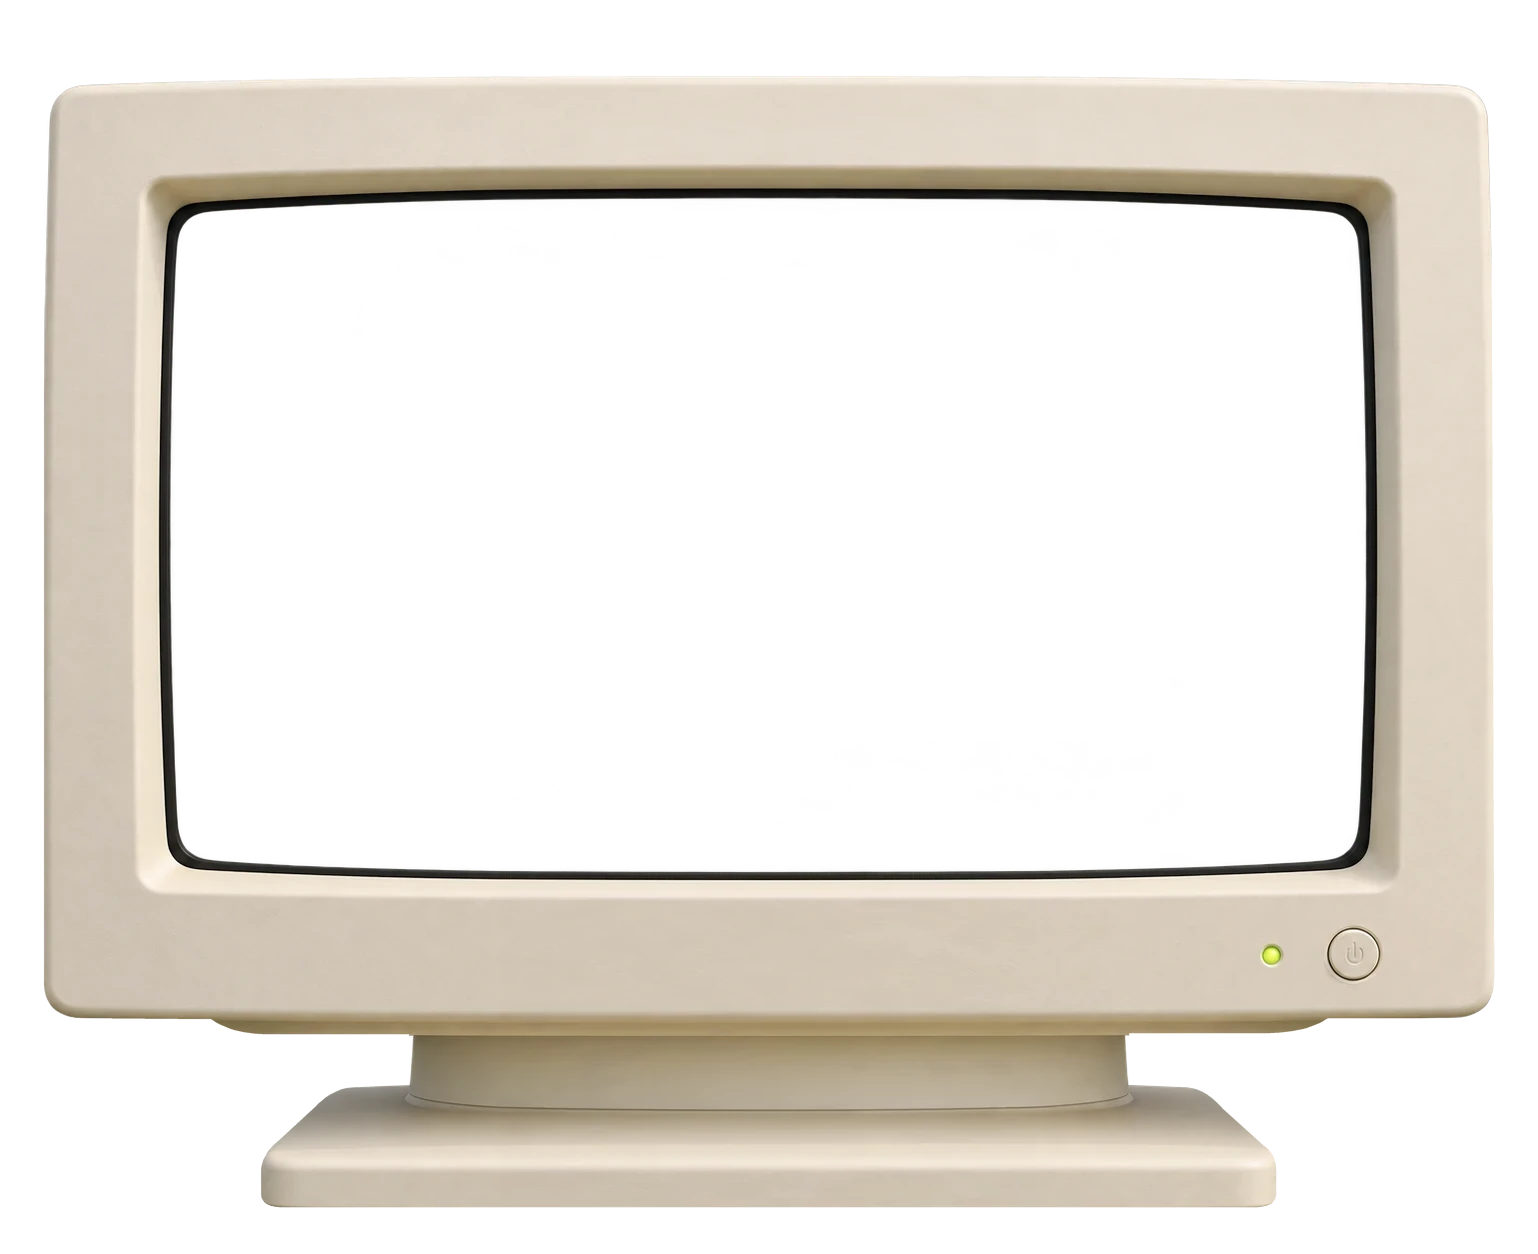
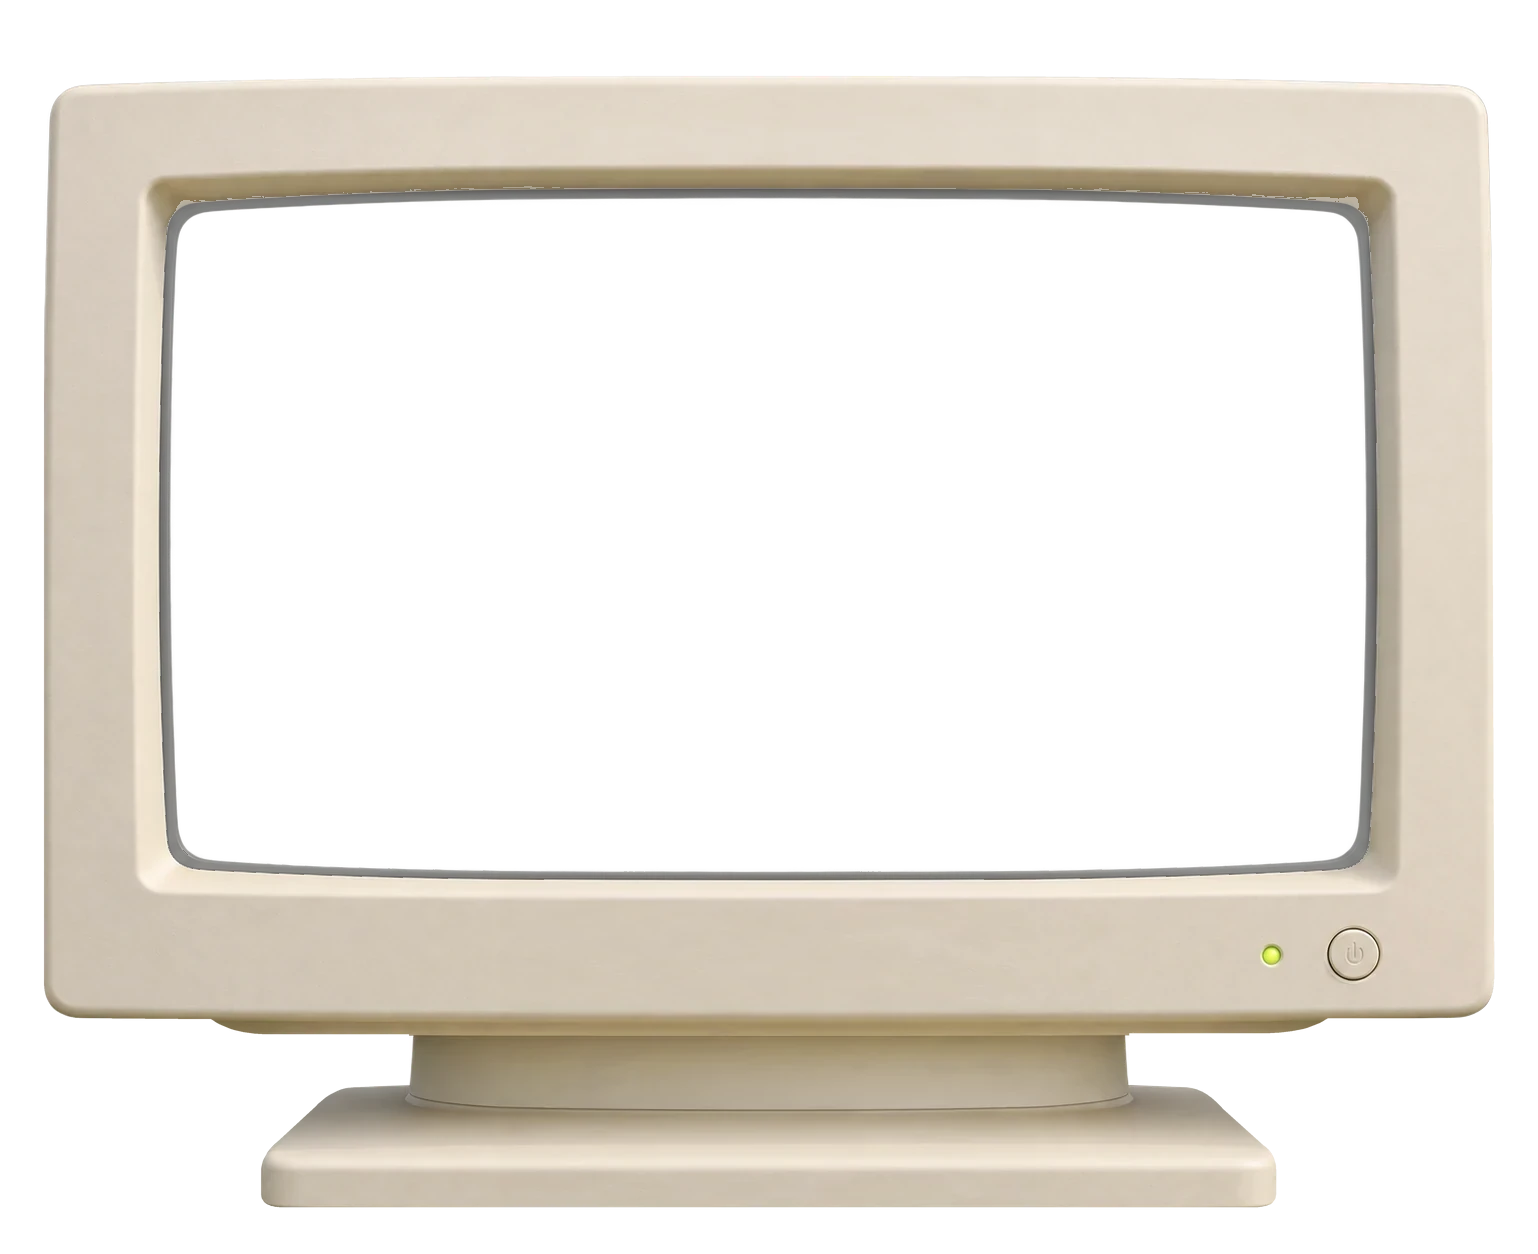
תיקיות ברורות עם לשונית וגב, והעבודות רק מציצות מהן; הצל הכהה סביב המסך שקוף יותר
Claude-Session: https://claude.ai/code/session_01EdftsxhHnWnxkGVw3npeQo

Changed region(s): [[0.0936, 0.1244, 0.9051, 0.6842], [0.1248, 0.6842, 0.8739, 0.7153]]

diff --git a/index.html b/index.html
@@ -1,20 +1,4 @@
 <!doctype html><html><head><meta charset=utf8><meta name=viewport content="width=device-width,initial-scale=1,viewport-fit=cover"><style>:root{color-scheme:light;box-sizing:border-box;padding-top:env(safe-area-inset-top,0px);padding-bottom:env(safe-area-inset-bottom,0px)}html{scroll-padding-top:env(safe-area-inset-top,0px)}body{margin:0;padding:0;font:14px -apple-system,BlinkMacSystemFont,sans-serif;background:#fff;color:#000}img{max-width:100%}[hidden]:not([hidden=until-found i]){display:none!important}
-/* folders as colour pockets with the work peeking out of the top (user's reference, 2026-11-16) */
-.pk{position:relative;display:block;width:min(100%,20cqw);aspect-ratio:20/19}
-.pk-back{position:absolute;left:0;right:0;bottom:0;height:64%;background:var(--fb);border-radius:1.2cqw 1.6cqw 1.6cqw 1.6cqw}
-.pk-back::before{content:"";position:absolute;left:0;top:-1.5cqw;width:44%;height:2.4cqw;background:var(--fb);border-radius:1cqw 1cqw 0 0}
-.pk-cards{position:absolute;left:8%;right:8%;top:0;bottom:34%}
-.pk-cards img{position:absolute;bottom:0;width:50%;height:auto;aspect-ratio:4/5;object-fit:cover;border-radius:.45cqw;box-shadow:0 .3cqw .9cqw rgba(0,0,0,.28);transition:transform .35s var(--ease)}
-.pk-cards img:nth-child(1){left:0;transform:rotate(-9deg);transform-origin:50% 100%}
-.pk-cards img:nth-child(2){left:24%;z-index:2;transform:translateY(-6%) rotate(2deg);transform-origin:50% 100%}
-.pk-cards img:nth-child(3){right:0;transform:rotate(10deg);transform-origin:50% 100%}
-.mfold:hover .pk-cards img:nth-child(1),.mfold:focus-visible .pk-cards img:nth-child(1){transform:translateY(-14%) rotate(-14deg)}
-.mfold:hover .pk-cards img:nth-child(2),.mfold:focus-visible .pk-cards img:nth-child(2){transform:translateY(-22%) rotate(1deg)}
-.mfold:hover .pk-cards img:nth-child(3),.mfold:focus-visible .pk-cards img:nth-child(3){transform:translateY(-14%) rotate(15deg)}
-.pk-front{position:absolute;left:0;right:0;bottom:0;height:54%;z-index:3;background:var(--ff);border-radius:1.6cqw;box-shadow:0 .5cqw 1.4cqw rgba(10,40,90,.28),inset 0 .25cqw 0 rgba(255,255,255,.35)}
-.mfold .mf-lead{display:none}
-@media (prefers-reduced-motion:reduce){.pk-cards img{transition:none}}
-@media (max-width:767px){.pk{width:min(100%,24cqw)}}
 </style></head><body>
 <script>try{var t=localStorage.getItem("io-theme");if(t!=="dark"&&t!=="light")t=matchMedia("(prefers-color-scheme: dark)").matches?"dark":"light";document.documentElement.dataset.theme=t}catch(e){}</script>
 <title>Inbal Oz</title>
@@ -251,6 +235,7 @@ p{margin:0}
 @media (max-width:767px){.sc-front{height:17svh;transform:scale(1.1)}}
 .monitor{position:absolute;left:calc(50% - var(--M) * 1.2265 / 2);top:calc(64px + (100% - 64px - var(--M)) / 2);width:calc(var(--M) * 1.2265);aspect-ratio:1538/1254;transform-origin:50% 42.7%} /* widened so the screen has the wallpaper's proportions (user 2026-11-16); --M is its height */
 .monitor__frame{position:absolute;inset:0;width:100%;height:100%;pointer-events:none;z-index:2}
+.monitor::before{content:"";position:absolute;left:9.6%;top:14.2%;width:80.8%;height:57%;border-radius:6%/8%;background:#1d3f86 url(scene/wallpaper-2.webp) 50% 50%/cover;filter:brightness(.55)} /* behind the see-through rim around the screen (user 2026-11-16: lighter shadow) */
 .monitor__display{position:absolute;left:10.9%;top:15.5%;width:78.2%;height:54.3%;overflow:hidden;border-radius:5%/7%;z-index:1;background:#3E7FD8 url(scene/wallpaper-2.webp) 50% 50%/cover;container-type:inline-size} /* her wallpaper (2026-11-16), fills the whole screen */
 .desk{position:absolute;inset:0;display:grid;align-items:start;justify-items:center;padding:5cqw 4cqw 6cqw} /* folders sit in the upper part of the screen (user 2026-11-16) */
 /* a dock along the bottom of the computer's screen, her own Mac dock; frosted glass so the wallpaper shows through */
@@ -667,6 +652,22 @@ p{margin:0}
   .rise{animation:none}
   *,*::before,*::after{transition-duration:.01ms!important}
 }
+
+/* the work folders: real folders first (back with a tab, front pocket), with two works just peeking out (user's reference, 2026-11-16) */
+.pk{position:relative;display:block;width:min(100%,18cqw);aspect-ratio:18/14}
+.pk-back{position:absolute;left:0;right:0;bottom:0;height:84%;background:var(--fb);border-radius:0 1.4cqw 1.4cqw 1.4cqw;box-shadow:0 .4cqw 1.2cqw rgba(10,40,90,.25)}
+.pk-back::before{content:"";position:absolute;left:0;bottom:100%;width:42%;height:2.2cqw;background:var(--fb);border-radius:1cqw 1.4cqw 0 0}
+.pk-cards{position:absolute;left:14%;right:14%;top:22%;bottom:30%}
+.pk-cards img{position:absolute;bottom:0;width:46%;height:auto;aspect-ratio:4/5;object-fit:cover;border-radius:.35cqw;box-shadow:0 .2cqw .6cqw rgba(0,0,0,.22);transform-origin:50% 100%;transition:transform .35s var(--ease)}
+.pk-cards img:nth-child(1){left:4%;transform:rotate(-6deg)}
+.pk-cards img:nth-child(2){right:4%;transform:rotate(5deg)}
+.pk-cards img:nth-child(3){display:none}
+.mfold:hover .pk-cards img:nth-child(1),.mfold:focus-visible .pk-cards img:nth-child(1){transform:translateY(-18%) rotate(-9deg)}
+.mfold:hover .pk-cards img:nth-child(2),.mfold:focus-visible .pk-cards img:nth-child(2){transform:translateY(-24%) rotate(8deg)}
+.pk-front{position:absolute;left:0;right:0;bottom:0;height:66%;z-index:3;background:var(--ff);border-radius:1.4cqw;box-shadow:0 -.2cqw .8cqw rgba(0,0,0,.12),inset 0 .2cqw 0 rgba(255,255,255,.4)}
+.mfold .mf-lead{display:none}
+@media (prefers-reduced-motion:reduce){.pk-cards img{transition:none}}
+@media (max-width:767px){.pk{width:min(100%,22cqw)}}
 </style>
 
 <div id="site" dir="ltr" lang="en">
